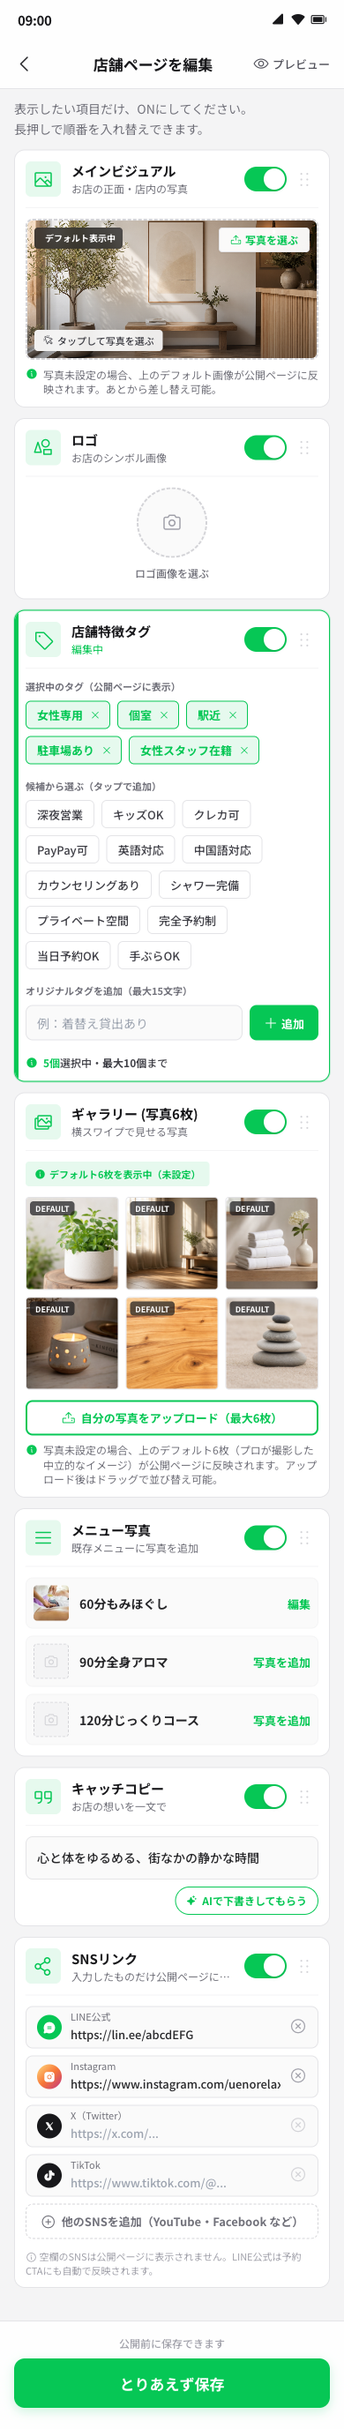
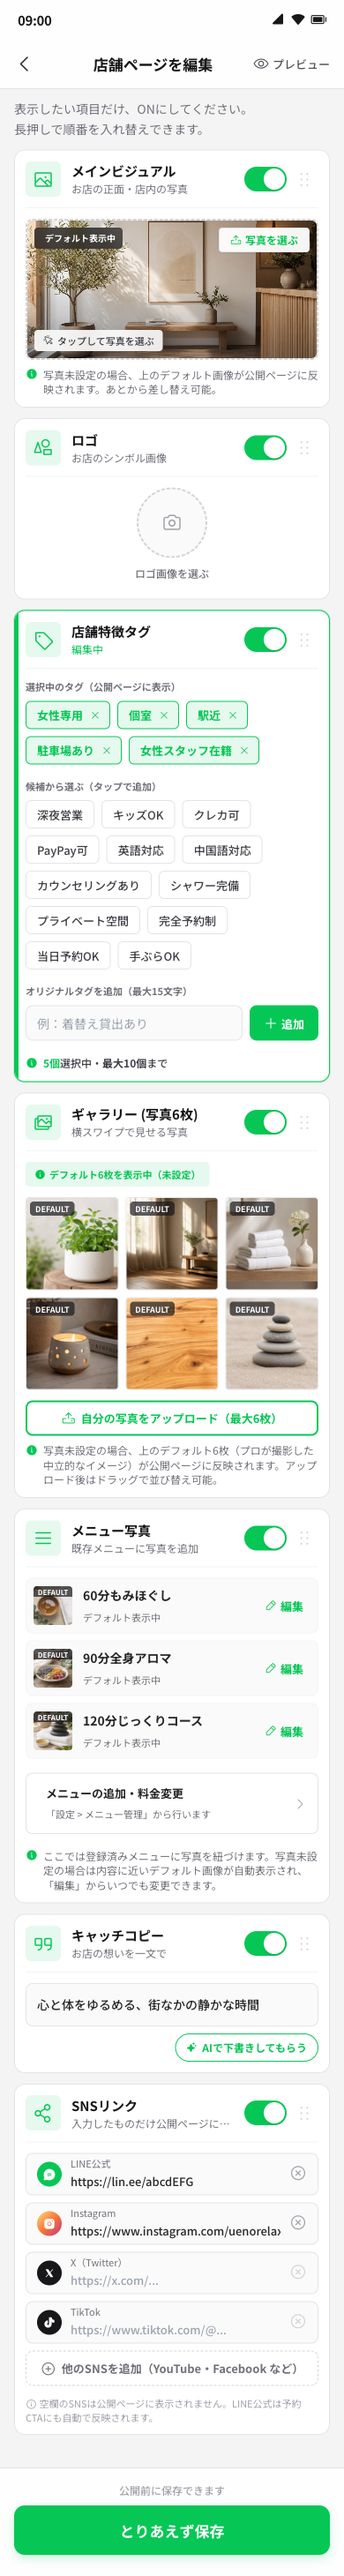
feat: Block5 全メニューをdefault stateに統一 / custom・empty variantをHTMLコメントで保持 / admin/README.md 新設
- Block 5 メニュー写真 3項目すべて state="default" で表示
  ｜60分もみほぐし は salon/02_oilbowl から default/menu/01_oil に変更
- custom (マイ写真) と empty (写真未設定) のマークアップを
  HTMLコメントとして直下に保持。実装時のリファレンスに
- shop-page/admin/README.md を新規作成
  * 3state パターンの完全仕様（マークアップ・JS フック・APIフロー）
  * デフォルトアセットマップ
  * メインビジュアル・ギャラリー・ロゴ の fallback ロジック
  * メニューマッチング推奨ルール
  * SNS リンクの公開ページ反映マップ
  * テンプレ切替フロー
  * マイグレーション TODO チェックリスト
  * デザインルール

diff --git a/shop-page/admin/02_block-edit.html b/shop-page/admin/02_block-edit.html
@@ -310,22 +310,35 @@
           </div>
           <div class="mt-3 pt-3 border-t border-zinc-100 flex flex-col gap-2">
 
-            <!-- 60分もみほぐし: アップロード済み -->
+            <!--
+              ▼ メニュー行のstate別マークアップ（実装時のリファレンス）
+              本モックではすべて state="default" を採用しているが、
+              実装時はバックエンドから photo_url の有無で3stateを出し分ける：
+
+                state="custom"   : photo_url あり（オーナーがアップロードした写真）
+                state="default"  : photo_url なし & 業界デフォルト画像がmatchする場合
+                state="empty"    : photo_url なし & デフォルトもfitしない場合（カメラ枠）
+
+              詳細は admin/README.md を参照。
+            -->
+
+            <!-- 60分もみほぐし（state="default" を採用） -->
             <div class="flex items-center gap-3 p-2 bg-zinc-50 rounded-lg border border-zinc-100">
-              <div class="w-11 h-11 bg-zinc-200 rounded overflow-hidden flex-shrink-0">
-                <img src="../../branding/dummy/salon/02_oilbowl.webp" alt="" class="w-full h-full object-cover">
+              <div class="w-11 h-11 rounded overflow-hidden flex-shrink-0 relative">
+                <img src="../../branding/dummy/default/menu/01_oil.webp" alt="" class="w-full h-full object-cover opacity-90">
+                <span class="absolute top-0 left-0 right-0 text-center bg-zinc-900/70 text-white text-[8px] font-bold leading-[10px] py-[1px]">DEFAULT</span>
               </div>
               <div class="flex-1 min-w-0">
                 <span class="text-[14px] font-bold text-zinc-800 truncate block">60分もみほぐし</span>
-                <span class="text-[11px] text-zinc-500">マイ写真</span>
+                <span class="text-[11px] text-zinc-500">デフォルト表示中</span>
               </div>
-              <button class="menu-photo-edit text-[13px] font-bold text-line h-8 px-2 flex items-center gap-1" data-menu="60分もみほぐし" data-state="custom">
+              <button class="menu-photo-edit text-[13px] font-bold text-line h-8 px-2 flex items-center gap-1" data-menu="60分もみほぐし" data-state="default">
                 <i class="ph ph-pencil-simple text-[14px]"></i>
                 編集
               </button>
             </div>
 
-            <!-- 90分全身アロマ: 未設定（デフォルト表示） -->
+            <!-- 90分全身アロマ（state="default"） -->
             <div class="flex items-center gap-3 p-2 bg-zinc-50 rounded-lg border border-zinc-100">
               <div class="w-11 h-11 rounded overflow-hidden flex-shrink-0 relative">
                 <img src="../../branding/dummy/default/menu/02_aroma.webp" alt="" class="w-full h-full object-cover opacity-90">
@@ -341,7 +354,7 @@
               </button>
             </div>
 
-            <!-- 120分じっくりコース: 未設定（デフォルト表示） -->
+            <!-- 120分じっくりコース（state="default"） -->
             <div class="flex items-center gap-3 p-2 bg-zinc-50 rounded-lg border border-zinc-100">
               <div class="w-11 h-11 rounded overflow-hidden flex-shrink-0 relative">
                 <img src="../../branding/dummy/default/menu/04_stones.webp" alt="" class="w-full h-full object-cover opacity-90">
@@ -356,6 +369,47 @@
                 編集
               </button>
             </div>
+
+            <!--
+              ▼ state="custom"（マイ写真）パターン：
+                ・サムネはオーナー写真（photo_url を直で指定）
+                ・サブラベル「マイ写真」
+                ・DEFAULTバッジなし
+
+              <div class="flex items-center gap-3 p-2 bg-zinc-50 rounded-lg border border-zinc-100">
+                <div class="w-11 h-11 bg-zinc-200 rounded overflow-hidden flex-shrink-0">
+                  <img src="{{ menu.photo_url }}" alt="" class="w-full h-full object-cover">
+                </div>
+                <div class="flex-1 min-w-0">
+                  <span class="text-[14px] font-bold text-zinc-800 truncate block">{{ menu.name }}</span>
+                  <span class="text-[11px] text-zinc-500">マイ写真</span>
+                </div>
+                <button class="menu-photo-edit text-[13px] font-bold text-line h-8 px-2 flex items-center gap-1" data-menu="{{ menu.name }}" data-state="custom">
+                  <i class="ph ph-pencil-simple text-[14px]"></i>
+                  編集
+                </button>
+              </div>
+
+              ▼ state="empty"（写真なし／カメラ枠）パターン：
+                ・サムネは破線枠＋カメラアイコン
+                ・サブラベル「写真未設定」
+                ・ボタンは「写真を追加」
+
+              <div class="flex items-center gap-3 p-2 bg-zinc-50 rounded-lg border border-zinc-100">
+                <div class="w-11 h-11 bg-zinc-100 border border-dashed border-zinc-300 rounded flex-shrink-0 flex items-center justify-center text-zinc-300">
+                  <i class="ph ph-camera text-lg"></i>
+                </div>
+                <div class="flex-1 min-w-0">
+                  <span class="text-[14px] font-bold text-zinc-800 truncate block">{{ menu.name }}</span>
+                  <span class="text-[11px] text-zinc-500">写真未設定</span>
+                </div>
+                <button class="menu-photo-edit text-[13px] font-bold text-line h-8 px-2 flex items-center gap-1" data-menu="{{ menu.name }}" data-state="empty">
+                  <i class="ph ph-plus text-[14px]"></i>
+                  写真を追加
+                </button>
+              </div>
+            -->
+
 
             <!-- メニュー管轄の説明 -->
             <a href="../../mockups/A_pure-line/settings.html" class="mt-2 flex items-center gap-2.5 p-3 bg-white border border-zinc-200 rounded-lg touch-active">

diff --git a/shop-page/admin/README.md b/shop-page/admin/README.md
@@ -1,0 +1,182 @@
+# Secleva 店舗ページ 管理画面（admin）実装ガイド
+
+本ディレクトリは **既存 Secleva 管理画面（`mockups/A_pure-line/admin.html`）にマージする前提のモック** です。  
+本番取り込み時に必要な実装情報をまとめます。
+
+---
+
+## 📂 ファイル構成
+
+```
+shop-page/admin/
+├── 01_template-select.html   テンプレート選択（5種）＋プレビューモーダル
+├── 02_block-edit.html        ブロック編集（メインビジュアル・ロゴ・タグ・ギャラリー・メニュー写真・キャッチコピー・SNS）
+├── 03_preview.html           プレビュー＋公開
+├── thumbs/                   テンプレ選択用サムネJPEG（thumb-T1.jpg〜thumb-T5.jpg）
+└── README.md                 本ファイル
+```
+
+依存：Tailwind CDN / Noto Sans JP / Phosphor Icons / `../branding/logo_A.png` / `../branding/dummy/default/*`
+
+マージ先：`mockups/A_pure-line/settings.html` の「店舗運営」カテゴリ内に「店舗ページ」項目を追加し、本3画面へ遷移させる。
+
+---
+
+## 🎨 デフォルトアセット
+
+`branding/dummy/default/` に **中立的なフォールバック画像** を配置。  
+オーナーが写真をアップロードしなくても見栄えするための保険。
+
+| パス | 用途 |
+|---|---|
+| `default/00_hero.webp`（16:9） | メインビジュアル fallback |
+| `default/01_plants.webp`〜`06_stones.webp`（1:1） | ギャラリー6枚 fallback |
+| `default/menu/01_oil.webp`〜`04_stones.webp`（1:1） | メニュー写真 fallback（4枚） |
+
+公開ページ側でも同じパスを参照する想定（オーナーが未アップロードなら自動で使用）。
+
+---
+
+## 🔁 メニュー写真の3 state パターン
+
+`02_block-edit.html` の **Block 5: メニュー写真** で、登録メニュー1件あたり3つの状態を出し分ける。
+
+### state="custom"（マイ写真）
+- バックエンドの `menu.photo_url` が存在する場合
+- サムネ：オーナー写真をそのまま `<img src="{{ menu.photo_url }}">` 表示
+- ラベル：`マイ写真`
+- ボタン：`✏ 編集`
+
+### state="default"（デフォルト表示中）
+- `menu.photo_url` がない & 業界デフォルトカテゴリにマッチする場合
+- サムネ：`branding/dummy/default/menu/{matched}.webp` 表示＋ `DEFAULT` バッジ
+- ラベル：`デフォルト表示中`
+- ボタン：`✏ 編集`
+
+### state="empty"（写真未設定）
+- `menu.photo_url` がない & デフォルトもマッチしない場合（業種が特殊・カテゴリ未設定など）
+- サムネ：破線枠＋カメラアイコン
+- ラベル：`写真未設定`
+- ボタン：`+ 写真を追加`
+
+→ 各stateの完全マークアップは `02_block-edit.html` の Block 5 直下の HTML コメントを参照。
+
+### マッチングロジック（推奨）
+バックエンドで `menu.name` または `menu.category` をキーにデフォルト画像を選択：
+```
+"もみほぐし" "整体" "リンパ" → default/menu/01_oil.webp
+"アロマ" "ハーブ" "オイル"   → default/menu/02_aroma.webp
+"フェイシャル" "クレンジング" → default/menu/03_towels.webp
+"ホットストーン" "リフレ"    → default/menu/04_stones.webp
+それ以外                     → state="empty"
+```
+
+---
+
+## 🔁 メインビジュアル・ギャラリー・ロゴの fallback
+
+### Block 1: メインビジュアル
+- `photo_url` あり：オーナーアップロード写真を表示
+- なし：`branding/dummy/default/00_hero.webp` を自動表示し、編集画面に「デフォルト表示中」バッジ＋注釈
+
+### Block 4: ギャラリー（6枚）
+- 各スロット個別判定：個別アップロード写真 → デフォルト6枚から自動補完
+- 編集画面では各スロットに `DEFAULT` バッジ＋一括「自分の写真をアップロード」CTA
+
+### Block 2: ロゴ
+- デフォルトなし（オーナー設定必須）
+- 未設定時の挙動は別途検討（テンプレ固有のシンボル？店名イニシャル自動生成？）
+
+---
+
+## 🪟 編集モーダル（メニュー写真用）
+
+`02_block-edit.html` 末尾の `#menu-photo-modal` がメニュー写真の編集ボトムシート。
+
+### 構造
+- 現在の写真プレビュー（state バッジ付き）
+- 「自分の写真をアップロード」CTA（メイン）
+- 「デフォルトから選ぶ」4サムネ（タップで反映）
+- 「元の写真に戻す」「写真を削除」（その他操作）
+- フッター：キャンセル／保存
+
+### JS フック
+- `.menu-photo-edit[data-menu]` クリックで開く
+- `data-state` 属性で state バッジ表示を切替
+- `data-menu` 属性でモーダル内のメニュー名を動的セット
+
+実装時はモーダル内の入力をフォーム化し、保存時に `PATCH /api/menus/{id}/photo` に送信する想定。
+
+---
+
+## 🔗 メニュー本体（名前・料金）の管理
+
+**ここ（Block 5）の責務は写真のみ**。メニュー追加・削除・料金変更は本流の `mockups/A_pure-line/settings.html`「設定 > メニュー管理」階層で行う。
+
+Block 5 内に誘導リンクカード「メニューの追加・料金変更 → 設定 > メニュー管理」を設置済み。
+
+メニュー数は固定3件ではなく、登録済みメニュー全件をループ表示する想定（API: `GET /api/shops/{id}/menus`）。
+
+---
+
+## 🌐 SNS リンク
+
+`Block 7: SNSリンク` で LINE 公式 / Instagram / X / TikTok の URL を登録。  
+公開ページの以下に自動反映：
+- ヘッダー右上のアイコン群（`href="#"` を入力値で置換）
+- 「Instagramで見る」CTA（T3など）
+- 「LINEで予約する」CTA（全テンプレ・LINE公式URLに直リンク）
+
+入力欄が空のSNSは公開ページに表示しない（要素ごと非出力）。
+
+---
+
+## 🎨 テンプレート切替
+
+`01_template-select.html` で5テンプレ（T1〜T5）から選択。
+
+- 各カードに実機キャプチャ（`thumbs/thumb-T*.jpg`）
+- サムネタップで `<iframe>` プレビューを bottom sheet に展開
+- カード内CTA「このテンプレートを選ぶ」で選択切替
+- 下部CTA「次へ進む（編集する）」で `02_block-edit.html` に進む
+
+選択結果は `shop.template_id` として保存し、公開ページのレンダリングテンプレ切替に使用。
+
+---
+
+## ✅ 公開ページへの反映マップ
+
+| 編集画面ブロック | 公開ページの反映先 |
+|---|---|
+| Block 1 メインビジュアル | テンプレ上部のヒーロー画像 |
+| Block 2 ロゴ | ヒーローに重なる円形ロゴ |
+| Block 3 店舗特徴タグ | 店舗名下の横スクロールチップ |
+| Block 4 ギャラリー（6枚） | ギャラリーセクション（テンプレ依存：横スクロール or 2x3グリッド） |
+| Block 5 メニュー写真 | メニューセクションの各カードのサムネ |
+| Block 6 キャッチコピー | 所在地下の一文 |
+| Block 7 SNSリンク | ヘッダーのSNSアイコン群 ＋ CTA の href |
+
+---
+
+## 📋 マイグレーション TODO（本番取り込み時）
+
+- [ ] settings.html の「店舗運営」に「店舗ページ」項目を追加（リンク先：01_template-select.html）
+- [ ] 各HTMLの Tailwind CDN を本流のビルドに統合
+- [ ] 画像パス `../../branding/dummy/default/` を本番アセットCDNに差し替え
+- [ ] JS（template-card 選択切替、modal開閉、メニュー写真state切替）を本流のフロントフレームワーク（React/Vue 等）に書き換え
+- [ ] 各state の API スキーマ確定（GET / PATCH / DELETE 写真）
+- [ ] WebP 自動変換パイプライン（アップロード時）
+- [ ] LocalBusiness schema 自動付与（SEO/MEO 対策）
+- [ ] sitemap.xml に店舗ページ追加
+- [ ] Googleビジネスプロフィール連携（Phase D / 任意）
+
+---
+
+## 📐 デザインルール
+
+- 全画面 mobile-first 390px固定
+- 配色：line green `#06C755` ／ zinc系の白カード ／ red `#dc2626`（破壊的アクション）
+- フォント：Noto Sans JP（既存brandと統一）
+- アイコン：Phosphor Icons（`@phosphor-icons/web`）
+- ボタン高さ：最低 44px（タップ領域確保）
+- 本文サイズ：13-15px（リテラシー低層も読みやすく）
